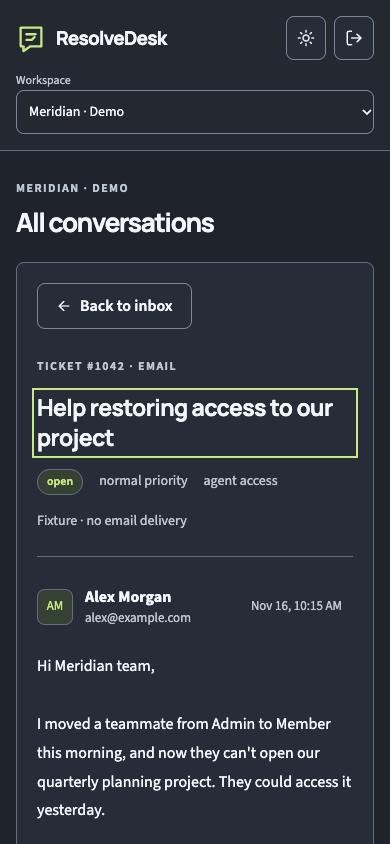
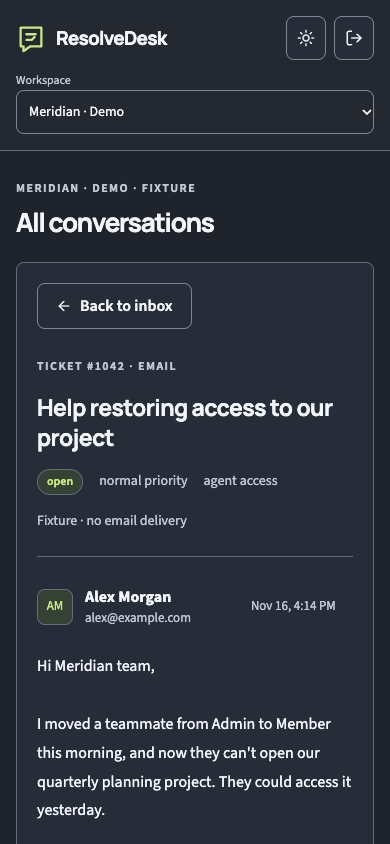
docs: record S01 delivery and S02 verification evidence #3

diff --git a/docs/planning/session-handoff.md b/docs/planning/session-handoff.md
@@ -1,58 +1,27 @@
-# Current continuation — 16 November 2026
-
-Functional delivery checkout: `/Users/rommelclarino/projects/resolvedesk-s01`, branch `feat/s01-workspace`. Original checkout and its pending screenshots remain untouched on `feat/ui-direction-prototypes`. Command Bright is implemented and verified; see `docs/verification/s01-command-bright.md`. PR #16 awaits updated CI/merge, then S02 is next. The prior handoff below is retained for provenance; its “Exact next work” design step is now done.
-
 # ResolveDesk session handoff
 
-Updated 16 November 2026. User requested records and a prompt for a new session; do not infer the project is complete.
+Updated 17 November 2026.
 
-## Start here
+## Active work and branch safety
 
-Application root: `/Users/rommelclarino/projects/resolvedesk`. Public repository: https://github.com/Kagerrak/resolvedesk. Current branch at handoff: `feat/ui-direction-prototypes`. Main contains repository setup; S01 application changes are on open PR #16, not yet merged. Prototype branch descends from S01.
+Functional checkout: `/Users/rommelclarino/projects/resolvedesk-s01`, branch `feat/s02-inbox`. Original `/Users/rommelclarino/projects/resolvedesk` remains on `feat/ui-direction-prototypes` with its pre-existing screenshot changes and generated `apps/web/AGENTS.md`; do not overwrite or merge that prototype branch wholesale.
 
-Read root AGENTS.md, .impeccable.md, this file, implementation-plan.md, design-system.md, GLOSSARY.md, execution-decisions.md, delivery-status.md and s01-checkpoint.md. Repository planning copies are authoritative for current decisions; the original `/Users/rommelclarino/projects/new-project-plans/resolvedesk` files are historical planning inputs, not the current tracker.
+S01 PR #16 merged as `9427fec425c34cd65230c88863ac027ebea0502f`; issue #2 closed. Command Bright D adopted with real API data, light theme, mobile/keyboard flows. CI run 43829740801 passed.
 
-## Approved decisions — do not ask again
+S02 implemented and locally verified. Commits `f3103e0`, `685f4a0` contain real scoped search/filter, draft revisions, explicit assignment/priority/status/reopen, optimistic concurrency and audit history. Local 29 S02 + 23 S01 assertions pass; browser and independent reviews pass. See `docs/verification/s02-manual-handling.md`. Finish S02 GitHub delivery/CI before closing issue #3. S03 #4 is unblocked; prioritize knowledge publication next.
 
-- MIT, public Kagerrak/resolvedesk, main plus feat/ and fix/ branches, GitHub Issues, root glossary, docs/adr, default triage labels and S01–S13 breakdown.
-- Better Auth; isolated anonymous demo sessions now, staff sign-in for real workspaces later.
-- Infrastructure total up to USD 25/month, separate from USD 20/month public-demo AI allowance. No paid resources provisioned; verify aggregate current costs before provisioning.
-- **Command Bright (D)** is the accepted design. The C-with-brighter-colors request and subsequent acceptance supersede B/Editorial and the original warm/deep-teal appearance. See .impeccable.md. Prototype commit 7899634 and docs/prototypes/command-bright.png are the visual reference.
-- Every unresolved question must be interactive, with a recommendation. Inspect environment/connected services for facts first. Never request raw secrets in chat.
+## Required reading and decisions
 
-## Mandatory workflow
+Read AGENTS.md and nested instructions, .impeccable.md, implementation-plan.md, design-system.md, GLOSSARY.md, delivery-status.md and execution-decisions.md. No TDD, test-first, unit tests, unit scaffolding or mocked units labeled integration. Implement first, then real HTTP/PostgreSQL, ego-browser, AI evaluations and static checks. Use feat/ or fix/ branches. Preserve unrelated work; no secrets or real mailbox data in Git.
 
-No TDD, test-first work, red-green-refactor, unit tests, unit-test files, mocks disguised as integration tests or unit-test scaffolding. Do not install or invoke TDD even if a skill suggests it. Implement behavior first; afterward verify with real API/PostgreSQL integration scenarios, ego-browser journeys, AI evaluations, static checks and manual review.
+Approved: Better Auth, MIT, public Kagerrak/resolvedesk GitHub Issues, S01–S13, Command Bright D, infrastructure ≤ USD25/month and separate USD20/month demo AI cap. No paid resources provisioned; verify current aggregate cost before provisioning. Do not repeat settled decisions. Ask unresolved choices interactively with a recommendation after inspecting available facts.
 
-Use ego-browser for all browser tasks. No codex/ branches. Preserve unrelated work; inspect staged changes before public pushes. Never commit credentials, local environment files or real customer/mailbox data. Carry authorized slices through persisted state, API, UI, failure handling, verification, review and GitHub delivery.
+Matt Pocock upstream rechecked unchanged at `5863806dd4e15c63174bee4e7515a4256792ecfa`; code-review/pr local hashes match recorded versions. Ego-browser installed guide 2.2.1. Skills/customizations preserved; TDD excluded.
 
-Check current access to Matt Pocock skills and the recorded upstream/version before use; refresh selected non-TDD skills through the supported installer if needed, preserving backups/customizations and canonical installations. Prior refresh is recorded in skill-update-record.json; never claim a new refresh without doing it. Existing convention is GLOSSARY.md, to-spec and to-tickets. Setup/spec/ticket approval has already happened; don't rerun the product interview. Skill instructions are subordinate to the no-TDD/no-unit-tests rules.
+## Local operation and limitations
 
-## What exists and what is verified
+README startup and scenario instructions apply. Existing ignored environment files were safely copied to functional checkout. Local PostgreSQL container remains `resolvedesk-postgres-1`, port55432. Inspect and reuse project-owned web/API processes on3000/8000; never build over a running Next production process (restart around builds). Scenario suites require spacing for real Better Auth rate limits.
 
-- PR #15 merged: repository setup, MIT, glossary and linked specification #1 / slice issues #2–#14.
-- PR #16 OPEN: https://github.com/Kagerrak/resolvedesk/pull/16. Better Auth, SQLAlchemy/Alembic PostgreSQL data, idempotent demo creation, workspace ownership, scoped read-only ticket/message API, responsive inbox, theme persistence, revocation and expiry recovery.
-- 23 real HTTP/Better Auth/PostgreSQL assertions passed. Lint/type checks and production build passed. Point-in-time npm audit had zero reported vulnerabilities.
-- Successful CI for commit 6227e7518b748caa60cb5647da10bb05e0def340: https://github.com/Kagerrak/resolvedesk/actions/runs/43590731743. Superseded cache-upload runs were cancelled. Check current PR head/checks before merge.
-- Ego-browser verified original S01 entry, persistence/reload, themes, 360–1440px reflow, keyboard focus, Viewer UI, real workspace switching, session and workspace expiry recovery. Temporary extra QA workspace removed. API outage/retry recovered without data loss.
-- Native browser 200% zoom is still unverified; CSS 200% reflow passed. No unattended browser CI, hosted deployment, AI/Gmail/evaluation results or full accessibility certification claimed.
-- D prototype: lint/types pass; desktop screenshot inspected; no page overflow at 390px; nine sampled text contrast ratios 6.95:1–11.75:1. This does not replace full state/accessibility verification.
+Only synthetic data is used. Temporary second QA workspace was removed. Browser sessions may expire; create fresh sessions through entry. Viewer QA membership may remain on the last synthetic session; a new session has Agent role.
 
-## Exact next work
-
-1. Inspect git status, local/remotes, PR #16 and issue #2. Preserve these pending files seen at handoff: modified docs/verification/s01-desktop-light.png and s01-desktop-dark.png (refreshed real screenshots), and untracked apps/web/AGENTS.md generated by next dev. Read that nested instruction file. Do not stage/reset unrelated work wholesale.
-2. Preserve prototype provenance on feat/ui-direction-prototypes. Move approved design documents to the production branch deliberately; do not merge the whole prototype branch. Use a safe worktree if necessary.
-3. Rewrite D's visual approach around the real S01 data and authorization on feat/s01-workspace (or a clearly scoped follow-up branch/PR). Keep compact navigation, ticket table, conversation/evidence hierarchy, brighter slate surfaces, readable text and lime actions. Keep/lightly adapt a complementary light theme and mobile/keyboard flows.
-4. Do not ship fake sample-ticket counts, simulated source retrieval, draft generation, approval/review actions or a prototype variant switcher. Production capabilities must match delivered slices. D's icon is a placeholder, not completion of the original custom logo deliverables.
-5. Verify only affected real behavior plus required gates; review and deliver S01/PR #16. Then close #2 and promote genuinely unblocked S02 #3 / S03 #4. Prioritize S02: persisted search/filter, manual draft, explicit assignment/priority/status, conflict handling, audit history and read-only enforcement.
-6. Continue S03–S13 in the approved dependency order, splitting oversized slices into complete journeys with breakdown review. Keep delivery records and issue status accurate.
-
-## Local commands
-
-README has complete setup. `python3 scripts/configure-local.py` preserves existing ignored environment files; `docker compose up -d --wait` starts digest-pinned local PostgreSQL/pgvector. API: `cd apps/api && uv sync --frozen && uv run alembic upgrade head`, then `uv run uvicorn resolvedesk.main:app --host 127.0.0.1 --port 8000`. Web: `cd apps/web && npm ci && npm run auth:migrate && npm run build && npm run start`. Local origin: http://localhost:3000.
-
-Prototype: `cd apps/web && npm run prototype`, http://localhost:3100/inbox?variant=D. Do not use prototype controls as proof of implemented functionality. Processes may still be running; inspect/reuse project-owned processes, don't kill unrelated ones. Next dev/build can change generated files; inspect before committing.
-
-## Remaining scope / external dependencies
-
-S02–S13 are unfinished. Gmail OAuth/account setup and real controlled mailbox verification remain unresolved; inspect available setup when approaching S08 and use interactive questions for missing choices. Deployment account/provider selection remains open within the approved budget. OpenAI model support, API behavior and prices must be checked against official documentation before implementation. Keep atomic spend reservations, limits, fixture fallback, exact approval binding, stale invalidation, recipient/connector revalidation and uncertain-delivery reconciliation requirements intact. Public demo isolation, cleanup and abuse controls are not yet delivered; do not expose the current local slice publicly.
+S03–S13 remain unfinished. No public hosted demo, AI quality evaluation or real Gmail verification exists. Native 200% browser zoom remains unverified. Public cleanup/abuse limits, live staff auth, OAuth/provider account setup, safe delivery and budget enforcement must still be delivered. Do not call the project complete.

diff --git a/docs/verification/s02-manual-handling.md b/docs/verification/s02-manual-handling.md
@@ -1,0 +1,25 @@
+# S02 manual handling verification
+
+Completed local verification 17 November 2026, on `feat/s02-inbox` after `9427fec` (delivered S01). Implementation commits `f3103e0`, `685f4a0`.
+
+## Persisted behavior
+
+- New migration adds nullable workspace-member assignment, immutable draft revisions and ticket audit events.
+- Search/status/assignment filters query PostgreSQL through the API; URL query persists filters across reload.
+- Explicit Apply changes writes status/priority/assignment atomically with audit. Reopen changes only the saved ticket status, leaving other unapplied local fields untouched.
+- Save draft creates a revision and never a Message or email. Expected ticket revision and row locks reject stale/concurrent edits. Viewer and cross-workspace mutations are rejected.
+
+## Verification evidence
+
+- `uv run python -m scenarios.s02`: **29 assertions passed**, genuine HTTP/Better Auth/PostgreSQL; no mocks. Includes case-insensitive/literal search, assignment filters, membership isolation, foreign assignee rejection, persisted changes and exact audit, no-op handling, immutable drafts, concurrent writers (one success/one 409), payload bounds, origin checks, explicit resolve/reopen, Viewer rejection and database revision/message counts.
+- `uv run python -m scenarios.s01`: **23 assertions passed** after the change. A first immediate sequential run hit the maintained auth library's anonymous-session rate limit; rerun after its window passed succeeded. CI spaces the suites by 61 seconds, retaining production protection. Auth 429 now reports temporary unavailability rather than a false ended session.
+- Web lint/types/build and Python Ruff/Pyright pass. Migration applies to the existing local PostgreSQL database.
+- Ego-browser 2.2.1: save draft, explicit assignment/priority/status, reload persistence, filtered empty result and reload URL persistence, resolve/reopen, keyboard/mobile save and Back focus restoration.
+- Two browser editors: stale save returns conflict and preserves local A while latest saved B is available for comparison; explicit restore takes B. Failed queue + concurrent saved D + general Retry retains local C, disables saving and requires explicit comparison (does not silently advance edit baseline).
+- Deterministic delayed mutation: held the real PostgreSQL Ticket row lock for eight seconds; began save in workspace A then switched to a separate permitted synthetic workspace B. The original save committed, but no A heading appeared under B (observed DOM mutations). Temporary QA workspace removed.
+- Reopen with unsaved priority `urgent` kept saved priority `high`; only subsequent Apply changed it.
+- Viewer role applied in the real database: saved draft/history readable, zero text editors or save/apply/reopen controls.
+- Both themes: 360, 390, 768, 1280 and 1440px show the editor without horizontal page overflow. Screenshots: `s02-desktop-dark.png`, `s02-desktop-light.png`, `s02-mobile-dark.png`.
+- Independent Spec/Standards review found three substantive edge cases (late response, silently advancing edit revision, unrelated reopen changes); fixed in `685f4a0`, rechecked by reviewers and verified in browser. No remaining material findings.
+
+Native 200% browser zoom remains unverified from S01; CSS 200% reflow previously passed. No full accessibility certification, unattended browser CI, hosted demo, live AI or Gmail claims. No paid resources provisioned, TDD or unit-test scaffolding introduced.

diff --git a/docs/planning/delivery-status.md b/docs/planning/delivery-status.md
@@ -6,9 +6,9 @@ Specification: https://github.com/Kagerrak/resolvedesk/issues/1
 
 | Slice | Issue | Status |
 |---|---|---|
-| S01 | [S01 — Enter an isolated workspace and inspect a sample ticket](https://github.com/Kagerrak/resolvedesk/issues/2) | Command Bright implemented and verified on PR #16; updated CI/merge pending |
-| S02 | [S02 — Handle a ticket through the owned inbox](https://github.com/Kagerrak/resolvedesk/issues/3) | Not implemented; blocked by planned prerequisites |
-| S03 | [S03 — Publish usable knowledge](https://github.com/Kagerrak/resolvedesk/issues/4) | Not implemented; blocked by planned prerequisites |
+| S01 | [S01 — Enter an isolated workspace and inspect a sample ticket](https://github.com/Kagerrak/resolvedesk/issues/2) | Delivered: PR #16 merged; issue #2 closed. Command Bright and 23 API assertions verified |
+| S02 | [S02 — Handle a ticket through the owned inbox](https://github.com/Kagerrak/resolvedesk/issues/3) | Implemented on feat/s02-inbox; 29 API assertions pass; browser and review passed; PR/CI delivery underway |
+| S03 | [S03 — Publish usable knowledge](https://github.com/Kagerrak/resolvedesk/issues/4) | Unblocked by S01; ready for implementation |
 | S04 | [S04 — Publish text-PDF knowledge with traceable pages](https://github.com/Kagerrak/resolvedesk/issues/5) | Not implemented; blocked by planned prerequisites |
 | S05 | [S05 — Retrieve supporting evidence from a ticket](https://github.com/Kagerrak/resolvedesk/issues/6) | Not implemented; blocked by planned prerequisites |
 | S06 | [S06 — Generate and revise a grounded draft](https://github.com/Kagerrak/resolvedesk/issues/7) | Not implemented; blocked by planned prerequisites |
@@ -22,8 +22,8 @@ Specification: https://github.com/Kagerrak/resolvedesk/issues/1
 
 ## Current delivery frontier
 
-- PR #16: https://github.com/Kagerrak/resolvedesk/pull/16 — open, ready for review; S01 is not closed.
-- Successful CI for S01 commit `6227e7518b748caa60cb5647da10bb05e0def340`: https://github.com/Kagerrak/resolvedesk/actions/runs/43590731743. Earlier superseded cache-upload runs were cancelled, not failed product checks.
-- Design prototype branch: `feat/ui-direction-prototypes`; D reference commit `7899634`. It includes S01 ancestry but is not a branch to merge wholesale into main.
-- Command Bright adoption and review completed; see docs/verification/s01-command-bright.md. Next: pass updated CI and deliver PR #16. Then unblock S02 #3 and S03 #4 appropriately; prioritize S02 manual inbox handling.
-- Do not mark downstream blocked issues ready-for-agent until their actual prerequisites are delivered.
+- PR #16 merged as `9427fec425c34cd65230c88863ac027ebea0502f`; issue #2 closed. Updated CI passed: https://github.com/Kagerrak/resolvedesk/actions/runs/43829740801.
+- Command Bright verification: docs/verification/s01-command-bright.md. Native 200% zoom still unverified; CSS 200% reflow passed.
+- S02 implementation on `feat/s02-inbox`: real draft revisions, explicit handling changes, audit history and server search/filters. 29 real API assertions passed; browser and independent review passed. S01's 23 assertions also passed after the change.
+- S03 is unblocked. Other dependency gates remain; no hosted demo, live AI or Gmail delivery exists.
+- Prototype checkout remains untouched on `feat/ui-direction-prototypes`, with its original pending screenshots. Active functional checkout: `/Users/rommelclarino/projects/resolvedesk-s01`.

diff --git a/README.md b/README.md
@@ -2,7 +2,7 @@
 
 Support, grounded in knowledge.
 
-An AI-assisted B2B support product under construction. The first slice provides an isolated synthetic workspace and persisted ticket inbox. AI drafting, knowledge, Gmail and the hosted recruiter demo remain unfinished; no live-provider or quality results are claimed.
+An AI-assisted B2B support product under construction. The local preview provides an isolated synthetic workspace, persisted ticket inbox, manual drafts, explicit ticket handling and audit history. AI drafting, knowledge, Gmail and the hosted recruiter demo remain unfinished; no live-provider or quality results are claimed.
 
 ## Run the local fixture preview
 
@@ -32,7 +32,7 @@ cd apps/web
 npm run start
 ```
 
-Open [localhost:3000](http://localhost:3000). Use this exact hostname for the session origin. Explore the sample inbox to create a Better Auth anonymous session and a unique persisted workspace. Reload preserves the ticket. End demo session signs out. Sessions and workspace access expire after one hour.
+Open [localhost:3000](http://localhost:3000). Use this exact hostname for the session origin. Explore the sample inbox to create a Better Auth anonymous session and a unique persisted workspace. Search/filter the actual queue, save a manual draft, assign a ticket, change priority/status and inspect history. Saved drafts are not messages and cannot be sent yet. Conflicting edits require comparison before saving again. Reload preserves saved work and query filters. End demo session signs out. Sessions and workspace access expire after one hour.
 
 The scripts generate local environment files without overwriting existing configuration. Never commit them. `.env.example` files show placeholders only. Docker data remains in a local volume when stopped; `docker compose down` stops the database without deleting it.
 
@@ -45,6 +45,9 @@ With both processes running against a disposable local database:
 ```sh
 cd apps/api
 uv run python -m scenarios.s01
+# Allow the real anonymous-session rate limit to reset between scenario suites.
+sleep 61
+uv run python -m scenarios.s02
 uv run ruff check resolvedesk migrations scenarios
 uv run pyright
 cd ../web
@@ -54,7 +57,7 @@ npm run build
 npm audit
 ```
 
-The scenario creates actual Better Auth sessions and persists PostgreSQL records, then checks isolation, concurrent creation, revocation, expiry and ownership constraints. It deletes its own synthetic records afterward. No unit tests or mock database. Interactive browser QA uses ego-browser; unattended CI browser execution is not configured or claimed.
+The scenarios create actual Better Auth sessions and persists PostgreSQL records, then check isolation, concurrent creation, revocation, expiry, draft revisions, concurrent writes, explicit reopen, Viewer enforcement and audit persistence. They delete their own synthetic records afterward. No unit tests or mock database. Interactive browser QA uses ego-browser; unattended CI browser execution is not configured or claimed.
 
 ## Product and delivery
 

diff --git a/docs/verification/s01-command-bright.md b/docs/verification/s01-command-bright.md
@@ -8,6 +8,7 @@ Production adoption on `feat/s01-workspace`, based on `6227e75`; prototype prove
 - Viewer role verified using the real database membership; UI remains read-only. Session end followed by direct inbox navigation removes content and offers a new session.
 - Actual API process outage rendered recovery and retry restored persisted content. Independently blocked list/detail network requests exposed a review finding: false empty/loading copy. Fixed and repeated both failures; truthful failure text and successful retry confirmed.
 - CSS 200% zoom reflow passed. Native browser zoom shortcut did not change viewport/device metrics; native 200% zoom remains unverified. No full accessibility certification or unattended browser CI is claimed.
+- Sampled text contrast in light/dark: 5.65:1–13.85:1; control boundaries 3.96:1–4.22:1. This is a sampled token check, not full WCAG certification.
 - Independent Spec review: no actionable findings. Standards review: one recovery-copy finding, fixed and browser-verified. No unit tests, TDD or mocks introduced.
 - Skills: ego-browser installed guide 2.2.1; frontend-design available locally. Matt Pocock upstream HEAD rechecked at `5863806dd4e15c63174bee4e7515a4256792ecfa`, unchanged from recorded installation. Local code-review and pr SHA-256 match skill-update-record.json. No refresh needed; customizations preserved; TDD excluded.
 

diff --git a/docs/planning/s01-checkpoint.md b/docs/planning/s01-checkpoint.md
@@ -4,4 +4,4 @@
 
 Better Auth, isolated demo creation, PostgreSQL membership/ticket/message persistence, scoped API and expiry recovery remain verified. 23 genuine HTTP/PostgreSQL assertions passed; web lint/types/build passed. Ego-browser responsive/keyboard/theme/Viewer/retry checks and independent reviews complete. See `docs/verification/s01-command-bright.md` for evidence and native zoom limitation.
 
-PR #16 awaits updated CI and merge. S02–S13, hosted demo, AI and Gmail remain unfinished. No paid resources provisioned.
+PR #16 merged as `9427fec`; issue #2 closed. Updated CI passed in run 43829740801. S02–S13, hosted demo, AI and Gmail remain unfinished. No paid resources provisioned.
